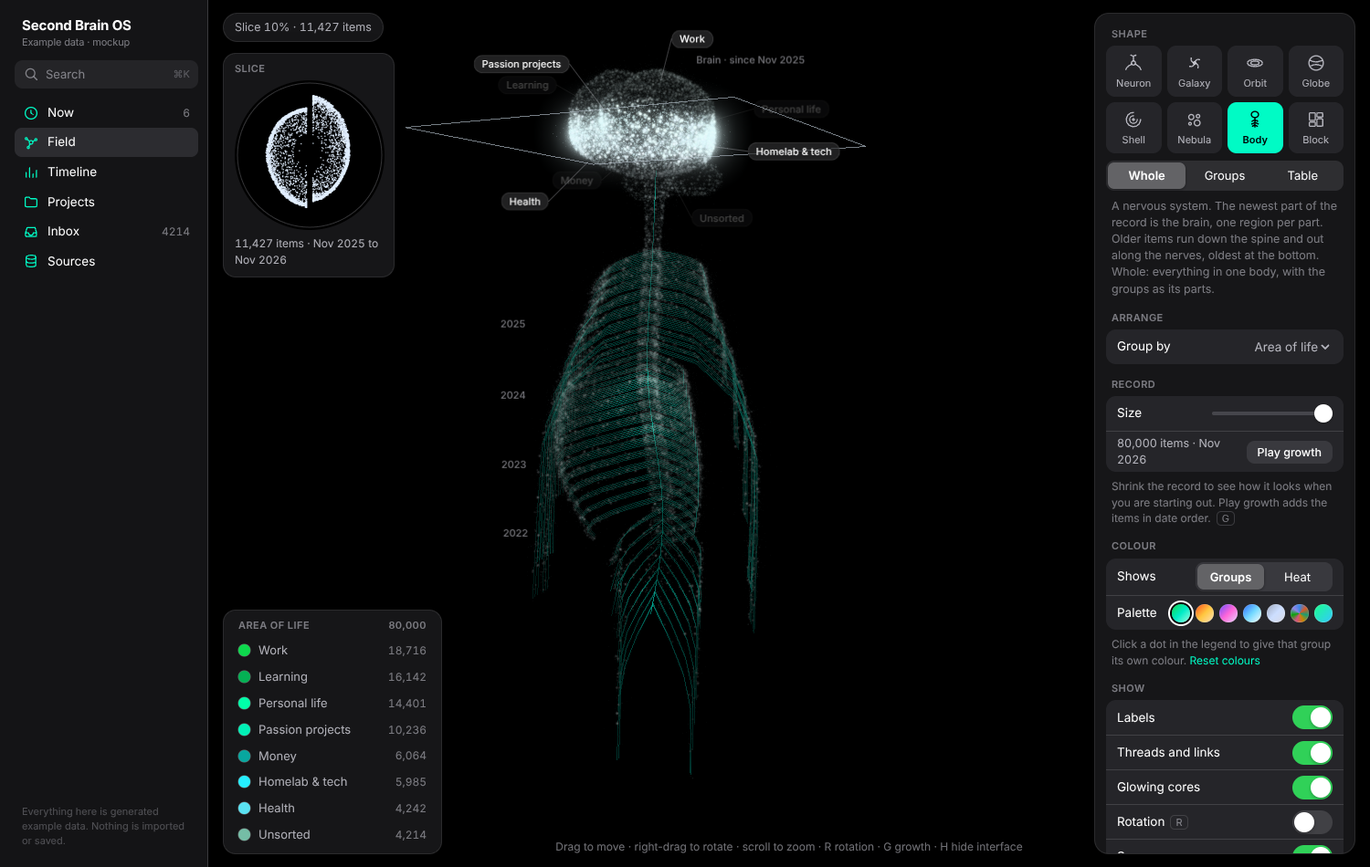
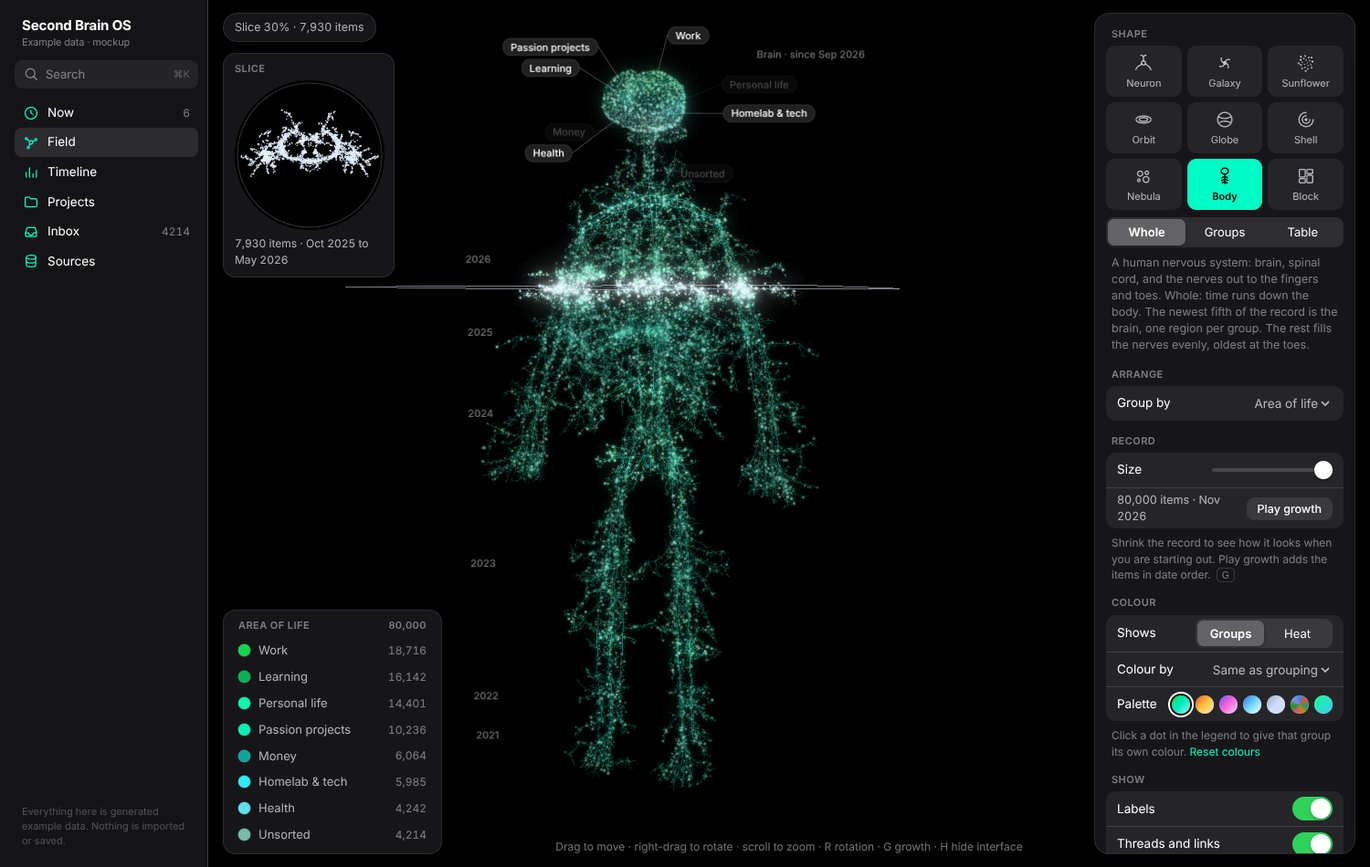
Second Brain OS mockup: Body is an anatomical nervous system
Rebuild the Body shape on the nerve tree from the v5 field (cord, rib
nerves, arms to fingers, legs to toes, mirrored), with a brain scaled
to the figure. Items sit along the nerves; Groups and Table give each
group a stretch of the one body, and Table splits each stretch left to
right by the second property. The unlit body stays visible while
scanning.

Claude-Session: https://claude.ai/code/session_01QQiybXZrdU5CyeFzxcWoFW

diff --git a/artifacts/second-brain-os.html b/artifacts/second-brain-os.html
@@ -512,7 +512,7 @@ let flBuf = [];                                           // thread and frame li
 const Z4 = [0, 0, 0, 0], fl = (x1, y1, z1, x2, y2, z2, c, a, C = Z4) => flBuf.push(x1, y1, z1, c[0], c[1], c[2], a, C[0], C[1], C[2], C[3], x2, y2, z2, c[0], c[1], c[2], a, C[0], C[1], C[2], C[3]);
 const WHITE = [1, 1, 1], NEUTRAL = [0.62, 0.72, 0.78], hr = n => (hash(n) & 0xffff)/65535;
 const shown = i => RANK[i] < S.count;                     // is this item part of the record at its current size?
-const colKey = () => S.colProp !== "same" && GROUPS[S.colProp] ? S.colProp : S.by;      // what colour stands for: the grouping, unless another property is chosen
+const colKey = () => S.colProp !== "same" && GROUPS[S.colProp] ? S.colProp : S.shape === "body" && S.lay === "table" && GROUPS[S.across] ? S.across : S.by;      // what colour stands for: the grouping, unless another property is chosen
 function groupStats(key){ const g = GROUPS[key || S.by], n = g.meta.length, cnt = new Int32Array(n); for(let i=0;i<NI;i++) if(RANK[i] < S.count) cnt[g.of(i)]++; return cnt; }
 const unit3 = v => { const l = Math.hypot(v[0], v[1], v[2]) || 1; return [v[0]/l, v[1]/l, v[2]/l]; };
 const cross3 = (a, b) => [a[1]*b[2]-a[2]*b[1], a[2]*b[0]-a[0]*b[2], a[0]*b[1]-a[1]*b[0]];
@@ -525,6 +525,44 @@ function parts(it){                                       // split one body's it
   for(const i of it.items){ const k = key(i); let a = m.get(k); if(!a) m.set(k, a = []); a.push(i); const t = iTm[i]; if(t < t0) t0 = t; if(t > t1) t1 = t; }
   const ord = [...m.keys()].sort((a, b) => m.get(b).length-m.get(a).length), n = it.items.length; if(t1-t0 < 3) t0 = Math.max(0, t1-3);
   return {ord, items:ord.map(k => m.get(k)), share:ord.map(k => m.get(k).length/n), n:ord.length, u:i => clamp((iTm[i]-t0)/(t1-t0), 0, 1)}; }
+let BT = null;
+function bodyTree(){ if(BT) return BT;                     // the nerve tree, grown once for the midline and the right side and then mirrored. Units here are centimetre-like; the result is scaled to the body's local space.
+  const rnd = rngF(4242), gs = () => { let u = 0; while(u < 1e-7) u = rnd(); return Math.sqrt(-2*Math.log(u))*Math.cos(TAU*rnd()); }, V = []; let gen = 0;
+  const add = (x, y, z, p) => { V.push([x, y, z, p, gen]); return V.length-1; };
+  const chain = (p, pts, wob) => { let last = p; wob = wob === undefined ? 0.7 : wob;
+    for(const q of pts){ const a = V[last], d = Math.hypot(q[0]-a[0], q[1]-a[1], q[2]-a[2]), n = Math.max(1, Math.round(d/3.5));
+      for(let i=1;i<=n;i++){ const f = i/n, j = i < n ? wob : 0; last = add(a[0]+(q[0]-a[0])*f+(rnd()-0.5)*j, a[1]+(q[1]-a[1])*f+(rnd()-0.5)*j, a[2]+(q[2]-a[2])*f+(rnd()-0.5)*j, last); } }
+    return last; };
+  const root = add(0, 84, -2, -1); chain(root, [[0, 89, -2.6], [0, 95.5, -1.5]], 0.3);                             // brainstem
+  const cordA = V.length, cpts = []; for(let y=78;y>=-24;y-=6) cpts.push([0, y, -2-3*Math.sin((84-y)/108*Math.PI*1.5)]); chain(root, cpts, 0.25); const cordB = V.length;      // spinal cord
+  const cordAt = y => { let b = cordA, bd = 1e9; for(let v=cordA;v<cordB;v++){ const d = Math.abs(V[v][1]-y); if(d < bd){ bd = d; b = v; } } return b; };
+  const sideA = V.length; gen = 1;
+  for(let L=0;L<12;L++){ const y0 = 62-L*4.4, Rx = 25*(0.8+0.2*Math.sin(Math.PI*(L+1)/13)), pts = [], kmax = 5+((rnd()*2) | 0), dr = 9+5*rnd()+(L > 8 ? 9 : 0);      // nerves between the ribs wrap the chest
+    for(let k=1;k<=kmax;k++){ const ph = 0.45+k*0.375; pts.push([Rx*Math.sin(ph), y0-dr*ph/2.7+gs()*0.7, 8-14*Math.cos(ph)]); } chain(cordAt(y0), pts, 1.2); }
+  chain(cordAt(80), [[5, 82, -3], [8.5, 88, -6], [8, 95, -10]], 0.8); chain(cordAt(78), [[6, 79, 1], [10, 82, 4], [11, 88, 3]], 0.8); chain(cordAt(78), [[7, 77, -3], [13, 76, -4], [19, 73, -3]], 0.8);      // neck
+  const SHO = chain(cordAt(74), [[14, 73, -3], [27, 68, -1]], 1.0);                                                 // shoulder
+  for(const [y, yy] of [[78, 70], [70, 66.5], [66, 65]]) chain(cordAt(y), [[13, (y+yy)/2+1, -2], [25+rnd(), yy, rnd()*2]], 1.0);
+  const wr = []; for(let j=0;j<4;j++){ const ox = (j-1.5)*2.6, oz = j % 2 ? 3 : -3, e = chain(SHO, [[33+ox*0.6, 50+gs(), oz*0.7], [39+ox, 29+gs()*2, -2+oz]], 1.2); wr.push(chain(e, [[44+ox, 10+gs()*2, 2+oz*0.8], [47.5+ox*0.9, -7, 5+oz*0.5]], 1.2)); }      // arm
+  for(let f=0;f<5;f++){ const tx = 47.5+(f-2)*3.6, ty = -28+[7, 1.5, 0, 1.5, 4][f], tz = 9+(f === 0 ? 4.5 : 0), kn = chain(wr[[0, 1, 1, 2, 3][f]], [[47+(f-2)*2.3, -15, 7]], 0.5); chain(kn, [[tx-0.55, ty, tz]], 0.3); chain(kn, [[tx+0.55, ty+0.7, tz]], 0.3); }      // fingers
+  const HP = chain(cordAt(-20), [[7, -26, -2], [12, -31, 0]], 1.0);                                                 // hip
+  for(const y of [4, -4, -12]) chain(cordAt(y), [[6, y-10, -1], [11+rnd(), -29+rnd()*2, rnd()*2-1]], 1.0);
+  chain(cordAt(8), [[9, -8, 4], [13, -44, 8], [15, -72, 7]], 1.3);
+  let af = 0; for(let j=0;j<4;j++){ const ox = (j-1.5)*2.4, oz = j % 2 ? 4 : -4, k = chain(HP, [[14+ox*0.7, -55+gs()*2, oz*0.8], [15+ox, -80, oz]], 1.2), a = chain(k, [[16+ox, -104+gs()*2, oz*0.7-1], [16+ox*0.8, -126, oz*0.5-2]], 1.2); if(j === 1) af = a; }      // leg
+  for(let f=0;f<5;f++) chain(af, [[13.5+f*1.7, -133, 7], [10.5+f*3, -138.5, 15+(f === 0 ? 1 : 0)]], 0.5);          // toes
+  const sy = chain(cordAt(72), [[4.2, 66, 1.5], [4.6, 40, 3]], 0.5); chain(sy, [[4.4, 16, 2.5], [3.6, -12, 1]], 0.5);      // the chain beside the spine
+  const vg = chain(root, [[4.5, 80, 3], [6, 70, 7], [6.5, 56, 10]], 0.9); for(let k=0;k<9;k++) chain(vg, [[Math.abs(6.5+gs()*4.5), 56+gs()*4.5, 10+gs()*3]], 0.8);      // heart and gut
+  const vg2 = chain(vg, [[5, 42, 12], [3, 30, 12.5]], 0.9); for(let k=0;k<15;k++) chain(vg2, [[Math.abs(3+gs()*6), 30+gs()*6, 12.5+gs()*3.5]], 0.8);
+  const cx = x => Math.max(0.5, x);
+  for(let q=0;q<4;q++){ const base = V.length, cnt = [170, 280, 340, 460][q];                                        // four rounds of finer branches, each staying on its side of the midline
+    for(let k=0;k<cnt;k++){ const v = sideA+((rnd()*(base-sideA)) | 0), a = V[v], l = [7, 4.5, 3, 1.8][q]+[11, 6, 4, 2.4][q]*rnd(), dx = gs()+0.5, dy = gs()-0.6, dz = gs(), nn = l/Math.hypot(dx, dy, dz); gen = 2+q;
+      chain(v, [[cx(a[0]+dx*nn*0.5+gs()*l*0.12), a[1]+dy*nn*0.5+gs()*l*0.12, a[2]+dz*nn*0.5+gs()*l*0.12], [cx(a[0]+dx*nn), a[1]+dy*nn, a[2]+dz*nn]], 0.6); } }
+  const n0 = V.length, map = new Int32Array(n0); for(let v=0;v<n0;v++){ if(v < sideA){ map[v] = v; continue; } map[v] = V.length; const a = V[v]; V.push([-a[0], a[1], a[2], a[3] < sideA ? a[3] : map[a[3]], a[4]]); }      // mirror
+  const L = v => [V[v][0]/135, (V[v][1]+8)/135, V[v][2]/135], WT = [5, 2.2, 1.5, 1.1, 0.9, 0.8], AL = [0.9, 0.55, 0.34, 0.24, 0.17, 0.12], edges = [], raw = [];
+  for(let v=0;v<V.length;v++){ const p = V[v][3]; if(p < 0) continue; const a = L(p), b = L(v), g2 = V[v][4], len = Math.hypot(b[0]-a[0], b[1]-a[1], b[2]-a[2]), m = Math.max(1, Math.ceil(len/0.012)); edges.push([a, b, AL[g2]]);
+    for(let q=0;q<m;q++){ const f0 = q/m, f1 = (q+1)/m; raw.push([a[0]+(b[0]-a[0])*f0, a[1]+(b[1]-a[1])*f0, a[2]+(b[2]-a[2])*f0, a[0]+(b[0]-a[0])*f1, a[1]+(b[1]-a[1])*f1, a[2]+(b[2]-a[2])*f1, g2, len/m*WT[g2]]); } }
+  raw.sort((x, y) => (y[1]+y[4])-(x[1]+x[4]));              // top of the body first
+  const n = raw.length, pc = new Float32Array(n*7), wt = new Float32Array(n), cum = new Float32Array(n+1); raw.forEach((r, k) => { pc.set(r.slice(0, 7), k*7); wt[k] = r[7]; cum[k+1] = cum[k]+r[7]; }); for(let k=0;k<=n;k++) cum[k] /= cum[n] || 1;
+  return BT = {edges, pc, wt, cum, n}; }
 const partLabel = (it, P, j, x, y, z, opt) => { if(it.whole && P.n <= 12) labels.push(Object.assign({t:GROUPS[S.by].meta[P.ord[j]][0], p:W(it, x, y, z), c:"", cen:[it.cx, it.cy, it.cz, it.r]}, opt)); };
 function wander(start, dir, len, seed, bend){ const n = Math.max(5, Math.round(len*26)), pts = [start.slice()]; let d = dir.slice(), p = start.slice();
   for(let k=1;k<=n;k++){ const t = k*0.33; d = unit3([d[0]+bend*(vnoise(seed, t, 1.7)-0.5), d[1]+bend*(vnoise(seed, t, 5.3)-0.5), d[2]+bend*(vnoise(seed, t, 9.9)-0.5)]);
@@ -566,64 +604,41 @@ const SH = {
     for(let j=0;j<n;j++){ const r0 = 0.2+0.8*(n-1-j)/n;
       for(const i of P.items[j]){ const lat = (P.u(i)-0.5)*2.7+gauss()*0.03, az = CUT+R()*(TAU-2*CUT), q = r0+R()*th*0.55, cl = Math.cos(lat); put(i, it, cl*Math.sin(az)*q, Math.sin(lat)*q, cl*Math.cos(az)*q); }
       const lat = -0.95+1.9*j/Math.max(1, n-1), q = r0+th*0.27; partLabel(it, P, j, Math.cos(lat)*Math.sin(CUT)*q, Math.sin(lat)*q, Math.cos(lat)*Math.cos(CUT)*q, {left:true}); } },
-  body(it){ const P = parts(it), n = P.n, NV = 30, all = it.items.slice().sort((a, b) => iTm[a]-iTm[b]);      // the newest part of the record is the brain; the rest runs down the spine, oldest at the bottom
-    if(!all.length) return; const t0 = iTm[all[0]], tCut = iTm[all[Math.min(all.length-1, Math.floor(all.length*0.6))]], span = Math.max(0.5, tCut-t0), BY = 0.74, DY = 1.04/NV;
-    const cen = v => { const t = v/NV; return [0.008*Math.sin(t*8.5+1), 0.42-t*1.04, 0.05*Math.sin(t*5.6+0.5)-0.02]; }, sm = x => { x = clamp(x, 0, 1); return x*x*(3-2*x); };
-    const root = (v, sd, g, f, o) => { const t = v/NV, c = cen(v), y0 = c[1]-g*DY;                     // one nerve leaving the cord: arms from the neck, ribs from the chest, legs from the base
-      if(t < 0.24){ const k = sm(t/0.24), L = 0.1+0.5*k, dn = 0.25+0.9*k; o[0] = c[0]+sd*(0.3*Math.sin(Math.min(1, f*1.5)*1.5708)*(0.5+0.6*k)+0.04*f*g); o[1] = y0-f*0.06-dn*f*f*L; o[2] = c[2]+0.05*f*(g-0.3); }
-      else if(t < 0.68){ const k = (t-0.24)/0.44, rx = 0.2*(0.8+0.25*Math.sin(k*3.1416)), ph = f*2.5; o[0] = c[0]+sd*rx*Math.sin(ph); o[1] = y0-0.07*f-0.02*Math.sin(ph); o[2] = c[2]+rx*0.72*(1-Math.cos(ph)); }
-      else { const k = (t-0.68)/0.32, L = 0.14+0.4*k; o[0] = c[0]+sd*(0.03+0.085*sm(f*1.7)+0.035*g*f+0.02*(1-k)*f); o[1] = y0-f*L; o[2] = c[2]+0.04*f*(g-0.5)+0.03*f*f; }
-      return o; };
-    const stem = (f, o) => { const c = cen(0); o[0] = c[0]*f; o[1] = BY-0.1+(c[1]-BY+0.1)*f; o[2] = -0.05+(c[2]+0.05)*f; return o; }, q0 = [0, 0, 0], q1 = [0, 0, 0];
-    for(let k=0;k<6;k++) seg(it, stem(k/6, q0).slice(), stem((k+1)/6, q1).slice(), 0.8);
-    const has = new Uint8Array(NV*n); let vTop = NV;
-    const inBrain = (i, d0, sp, lo, hi) => { const w = R(); let px = 0, py = BY, pz = 0;
-          if(w < 0.09){ const sd = R() < 0.5 ? -1 : 1, u = unit3([gauss(), gauss(), gauss()]), rr = 0.82+0.18*R(); px = sd*0.07+u[0]*0.085*rr; py = BY-0.115+Math.round(u[1]*0.05*rr*90)/90+gauss()*0.0015; pz = -0.14+u[2]*0.075*rr; if(px*sd < 0.004) px = sd*0.004; }      // cerebellum: two small leaves, finely layered
-          else if(w < 0.13){ const f = R(), a = R()*TAU, rr = 0.034*(1-0.4*f)*(0.85+0.15*R()); stem(f, q0); px = q0[0]+Math.cos(a)*rr; py = q0[1]; pz = q0[2]+Math.sin(a)*rr; }                                          // brainstem
-          else for(let tr=0;tr<8;tr++){ let x, y, z; if(lo !== undefined){ x = lo+R()*(hi-lo); const rr = Math.sqrt(Math.max(0, 1-x*x)), ph = R()*TAU; y = rr*Math.cos(ph); z = rr*Math.sin(ph); } else { x = d0[0]+gauss()*sp; y = d0[1]*0.8+gauss()*sp; z = d0[2]+gauss()*sp; const l = Math.hypot(x, y, z) || 1; x /= l; y /= l; z /= l; }                                  // cortex: a folded shell with two unequal halves; each part is a region of it
-            const sd = x < 0 ? -1 : 1, lump = 1+0.2*(vnoise(x*1.7+sd*13.7+3, y*1.7+5, z*1.7+8)-0.5), dip = 1-0.3*Math.exp(-(x*x)/0.02)*(y > 0 ? 1 : 0.3), nar = y < 0 ? 1-0.3*y*y : 1;
-            const sx = x*0.2*(sd < 0 ? 1.05 : 0.97)*lump*nar, sy = y*0.17*(y < 0 ? 0.72+0.2*x*x : 1)*lump*dip, sz = z*0.25*lump*(1+0.06*sd*z);
-            const nz = 0.6*vnoise(sx*22+sd*31.7, sy*22+5.2, sz*18+9.4)+0.4*vnoise(sx*47+3, sy*47+1, sz*40+7), rd = Math.min(Math.abs(nz-0.36), Math.abs(nz-0.5), Math.abs(nz-0.64)), deep = R() < 0.12, sh = deep ? 0.4+0.5*Math.sqrt(R()) : 0.95+0.05*R();
-            px = sx*sh; if(Math.abs(px) < 0.015) px = sd*(0.015+Math.abs(gauss())*0.004); py = BY+sy*sh; pz = sz*sh+0.01; if(deep || rd >= 0.016 || R() > 0.95) break; }
-          put(i, it, px, py, pz); };
-    const inSpine = (i, v, g) => { const q = R(), sd = R() < 0.5 ? -1 : 1;
-        if(q < 0.2){ const c = cen(v+R()*0.55), a = R()*TAU, rr = 0.024*(0.8+0.4*R())*(1+0.4*v/NV); put(i, it, c[0]+Math.cos(a)*rr, c[1]+gauss()*0.004, c[2]+Math.sin(a)*rr*0.8); }
-        else if(q < 0.26){ const c = cen(v+R()*0.55), f = R(); put(i, it, c[0]+gauss()*0.004, c[1]-f*0.018, c[2]-0.03-f*0.04); }
-        else { root(v, sd, g, Math.pow(R(), 0.8), q0); put(i, it, q0[0]+gauss()*0.0035, q0[1]+gauss()*0.0035, q0[2]+gauss()*0.0035); } };
-    if(it.mode === "groups" && n > 1){ const ord = [...Array(n).keys()]; if(S.by === "year") ord.sort((x, y) => P.ord[y]-P.ord[x]);      // still one body: each group owns its own stretch of it, the first ones in the brain
-      let k = 1, cum = 0, best = 9, tot = 0; for(let q=0;q<n-1;q++){ cum += P.share[ord[q]]; if(Math.abs(cum-0.4) < best){ best = Math.abs(cum-0.4); k = q+1; tot = cum; } }
-      let a = 0, xa = -1; ord.forEach((j, q) => { const items = P.items[j].slice().sort((x, y) => iTm[y]-iTm[x]), sh = P.share[j];
-        if(q < k){ const xb = q === k-1 ? 1 : xa+2*sh/tot, xm = (xa+xb)/2; for(const i of items) inBrain(i, null, 0, xa, xb); partLabel(it, P, j, xm*0.2, BY+0.15*Math.sqrt(Math.max(0, 1-xm*xm))+0.01, 0.06, {lead:W(it, xm*0.08, BY-0.12, 0)}); xa = xb; return; }      // brain: slices from left to right, sized by share
-        const b = a+sh/(1-tot), len = items.length; items.forEach((i, x) => { const tv = Math.min(NV-1e-3, (a+(x+R())/len*(b-a))*NV), v = Math.floor(tv); inSpine(i, v, tv-v); });      // spine: a stretch per group, newest at its top
-        const vm = Math.min(NV-1, Math.floor((a+b)/2*NV)), sd = (q-k) % 2 ? 1 : -1, tip = root(vm, sd, 0.5, 0.4, [0, 0, 0]); partLabel(it, P, j, tip[0], tip[1], tip[2]+0.03, {lead:W(it, 0, tip[1]+0.02, tip[2]), solid:true});
-        a = b; });
-      for(let v=0;v<NV;v++){ seg(it, cen(v), cen(v+1), 0.9); for(const g of [0.12, 0.37, 0.62, 0.87]) for(const sd of [-1, 1]){ let p = cen(v); p[1] -= g*DY; for(let q=1;q<=5;q++){ const e = root(v, sd, g, q/5, [0, 0, 0]); seg(it, p, e, 0.42-0.06*q); p = e; } } }
+  body(it){ const B = bodyTree(), P = parts(it), n = P.n, BY = 0.875, BS = 0.56, mode = it.mode || "whole", all = it.items.slice().sort((x, y) => iTm[y]-iTm[x]), N0 = all.length; if(!N0) return;      // a human nervous system: brain, cord, and the nerves out to fingers and toes
+    const inBrain = (i, d0, sp, lo, hi) => { const w = lo === undefined ? R() : 1; let px = 0, py = 0, pz = 0;
+      if(w < 0.09){ const sd = R() < 0.5 ? -1 : 1, u = unit3([gauss(), gauss(), gauss()]), rr = 0.82+0.18*R(); px = sd*0.07+u[0]*0.085*rr; py = -0.115+Math.round(u[1]*0.05*rr*90)/90+gauss()*0.0015; pz = -0.14+u[2]*0.075*rr; if(px*sd < 0.004) px = sd*0.004; }      // cerebellum: two small leaves, finely layered
+      else if(w < 0.13){ const f = R(), a = R()*TAU, rr = 0.034*(1-0.4*f)*(0.85+0.15*R()); px = Math.cos(a)*rr; py = -0.1-0.246*f; pz = -0.05+0.023*f+Math.sin(a)*rr; }                                                // brainstem
+      else for(let tr=0;tr<8;tr++){ let x, y, z; if(lo !== undefined){ x = lo+R()*(hi-lo); const rr = Math.sqrt(Math.max(0, 1-x*x)), ph = R()*TAU; y = rr*Math.cos(ph); z = rr*Math.sin(ph); } else { x = d0[0]+gauss()*sp; y = d0[1]*0.8+gauss()*sp; z = d0[2]+gauss()*sp; const l = Math.hypot(x, y, z) || 1; x /= l; y /= l; z /= l; }      // cortex: a folded shell with two unequal halves
+        const sd = x < 0 ? -1 : 1, lump = 1+0.2*(vnoise(x*1.7+sd*13.7+3, y*1.7+5, z*1.7+8)-0.5), dip = 1-0.3*Math.exp(-(x*x)/0.02)*(y > 0 ? 1 : 0.3), nar = y < 0 ? 1-0.3*y*y : 1;
+        const sx = x*0.2*(sd < 0 ? 1.05 : 0.97)*lump*nar, sy = y*0.17*(y < 0 ? 0.72+0.2*x*x : 1)*lump*dip, sz = z*0.25*lump*(1+0.06*sd*z);
+        const nz = 0.6*vnoise(sx*22+sd*31.7, sy*22+5.2, sz*18+9.4)+0.4*vnoise(sx*47+3, sy*47+1, sz*40+7), rd = Math.min(Math.abs(nz-0.36), Math.abs(nz-0.5), Math.abs(nz-0.64)), deep = R() < 0.3, sh = deep ? 0.35+0.55*Math.sqrt(R()) : 0.95+0.05*R();
+        px = sx*sh; if(Math.abs(px) < 0.015) px = sd*(0.015+Math.abs(gauss())*0.004); py = sy*sh; pz = sz*sh+0.01; if(deep || rd >= 0.016 || R() > 0.95) break; }
+      put(i, it, px*BS, BY+py*BS, pz*BS); };
+    const TH = [0.011, 0.0055, 0.004, 0.003, 0.0025, 0.002], onPiece = (i, k) => { const o = k*7, f = R(), th = TH[B.pc[o+6]]; put(i, it, B.pc[o]+(B.pc[o+3]-B.pc[o])*f+gauss()*th, B.pc[o+1]+(B.pc[o+4]-B.pc[o+1])*f+gauss()*th, B.pc[o+2]+(B.pc[o+5]-B.pc[o+2])*f+gauss()*th); };
+    const pieceAt = q => { let lo = 0, hi = B.n; q = clamp(q, 0, 0.999999); while(hi-lo > 1){ const m = (lo+hi) >> 1; if(B.cum[m] <= q) lo = m; else hi = m; } return lo; }, yAt = q => { const o = pieceAt(q)*7; return (B.pc[o+1]+B.pc[o+4])/2; };
+    for(const e of B.edges) seg(it, e[0], e[1], e[2]);
+    const cenL = [it.cx, it.cy, it.cz, it.r];
+    if(mode === "whole" || n < 2){ const nb = Math.round(N0*0.18), m = N0-nb, tCut = iTm[all[Math.max(0, nb-1)]], seed = new Map(), spd = new Map();      // time runs down the body: the newest fifth is the brain, the rest fills the nerves evenly, oldest at the toes
+      for(let j=0;j<n;j++){ const d0 = fib(j, n); seed.set(P.ord[j], d0); spd.set(P.ord[j], n === 1 ? 9 : 0.3+0.95*Math.sqrt(P.share[j])); partLabel(it, P, j, d0[0]*0.2*BS, BY+d0[1]*0.136*BS, d0[2]*0.25*BS, {lead:W(it, 0, BY, 0)}); }
+      const key = GROUPS[S.by].of; for(let k=0;k<nb;k++){ const i = all[k], g = it.whole ? key(i) : P.ord[0]; inBrain(i, seed.get(g) || [0, 1, 0], spd.get(g) || 9); }
+      for(let k=nb;k<N0;k++) onPiece(all[k], pieceAt((k-nb+R()*(1+m*0.004))/(m*1.004)));
+      if(it.whole){ const my = tm => MON[Math.floor(tm) % 12]+" "+(2021+Math.floor(tm/12)); labels.push({t:"Brain · since "+my(tCut), p:W(it, 0.3, BY+0.13, 0), c:"yr", left:true});
+        for(let yv=0, k=nb;yv<YEARS.length;yv++){ const y = YEARS.length-1-yv; let k1 = k; while(k1 < N0 && iTm[all[k1]] >= y*12) k1++; if(k1 > k && k1-k > m*0.012) labels.push({t:String(2021+y), p:W(it, -0.5, yAt(((k+k1)/2-nb)/m), 0), c:"yr", right:true}); k = k1; } }
       return; }
-    for(let j=0;j<n;j++){ const d0 = fib(j, n), sp = n === 1 ? 9 : 0.3+0.95*Math.sqrt(P.share[j]);
-      for(const i of P.items[j]){ if(iTm[i] >= tCut){ inBrain(i, d0, sp); continue; }
-        const v = Math.min(NV-1, Math.floor((1-(iTm[i]-t0)/span)*NV)); has[v*n+j] = 1; if(v < vTop) vTop = v; inSpine(i, v, n === 1 ? R() : j/n+R()*0.8/n); }      // spine: one vertebra per stretch of time
-      partLabel(it, P, j, d0[0]*0.2, BY+d0[1]*0.8*0.17, d0[2]*0.25, {lead:W(it, 0, BY, 0)}); }
-    for(let v=vTop;v<NV;v++){ seg(it, cen(v), cen(v+1), 0.9);                                     // a nerve is drawn only once it holds something
-      for(let j=0;j<n;j++){ if(!has[v*n+j]) continue; for(const sd of [-1, 1]){ const g = n === 1 ? 0.5 : j/n; let p = cen(v); p[1] -= g*DY; for(let q=1;q<=5;q++){ const e = root(v, sd, g, q/5, [0, 0, 0]); seg(it, p, e, 0.42-0.06*q); p = e; } } } }
-    for(let v=0;v<vTop;v++) seg(it, cen(v), cen(v+1), 0.9);
-    if(it.whole){ const my = tm => MON[Math.floor(tm) % 12]+" "+(2021+Math.floor(tm/12)); labels.push({t:"Brain · since "+my(tCut), p:W(it, 0.3, BY+0.24, 0), c:"yr"});
-      for(let yv=Math.ceil(t0/12);yv*12<tCut;yv++) labels.push({t:String(2021+yv), p:W(it, -0.42, 0.42-(1-(yv*12-t0)/span)*1.04, 0), c:"yr", right:true}); } },
-  bodyflat(it){ const g = GROUPS[S.by], ac = ACROSS[S.across], cnt = groupStats(), rows = [...Array(cnt.length).keys()].filter(k => cnt[k]); if(S.by === "year") rows.reverse(); else if(S.by !== "status") rows.sort((x, y) => cnt[y]-cnt[x]);      // one body laid flat: groups run down it, the second property runs outward from the spine
-    const cc = new Int32Array(ac.meta.length); for(const i of it.items) cc[ac.of(i)]++; const cols = [...Array(cc.length).keys()].filter(k => cc[k]), nr = rows.length, nc = cols.length, ri = new Int32Array(cnt.length), ci = new Int32Array(cc.length); rows.forEach((k, j) => ri[k] = j); cols.forEach((k, j) => ci[k] = j);
-    const sm = x => { x = clamp(x, 0, 1); return x*x*(3-2*x); }, YT = 0.925, YB = -1, M = 400, C = [it.cx, it.cy, it.cz, it.r];
-    const wOf = y => y > 0.56 ? Math.max(0.05, 0.215*Math.sqrt(Math.max(0, 1-Math.pow((y-0.745)/0.185, 2)))) : y > 0.44 ? 0.05 : y > 0.3 ? 0.05+0.28*sm((0.44-y)/0.14) : y > -0.3 ? 0.33-0.12*sm((0.3-y)/0.6) : y > -0.48 ? 0.21+0.04*sm((-0.3-y)/0.18) : 0.25-0.15*(-0.48-y)/0.52;      // half-width of the outline: head, neck, shoulders, waist, hips, legs
-    const gOf = y => y > -0.5 ? 0.012 : 0.012+0.035*sm((-0.5-y)/0.25), A = new Float32Array(M+1); for(let q=0;q<M;q++){ const y = YT+(YB-YT)*(q+0.5)/M; A[q+1] = A[q]+Math.max(0, wOf(y)-gOf(y)); }
-    const yAt = a => { let lo = 0, hi = M; while(hi-lo > 1){ const m = (lo+hi) >> 1; if(A[m] <= a) lo = m; else hi = m; } return YT+(YB-YT)*(lo+(a-A[lo])/Math.max(1e-9, A[lo+1]-A[lo]))/M; };      // rows take height in proportion to their share of the outline's area
-    const n = it.items.length, edge = [0]; let acc = 0; rows.forEach(k => { acc += cnt[k]/n; edge.push(Math.min(1, acc)*A[M]); });
-    for(const i of it.items){ const r = ri[g.of(i)], c = ci[ac.of(i)], sd = R() < 0.5 ? -1 : 1; let x = 0, y = 0;
-      for(let tr=0;tr<6;tr++){ y = yAt(edge[r]+R()*(edge[r+1]-edge[r])); const w = wOf(y), gp = gOf(y); x = gp+(c+R())/nc*(w-gp);
-        if(y <= 0.56){ if(R() < 0.72) y = Math.round(y/0.0125)*0.0125+gauss()*0.0012; break; }
-        const nz = 0.6*vnoise(x*sd*24+40, y*24, 7.3)+0.4*vnoise(x*sd*52+3, y*52, 1.7); if(Math.min(Math.abs(nz-0.36), Math.abs(nz-0.5), Math.abs(nz-0.64)) >= 0.014 || R() > 0.9) break; }
-      put(i, it, sd*x, y, gauss()*0.006); }
-    seg(it, [0, YT, 0], [0, -0.5, 0], 0.5); for(let r=1;r<nr;r++){ const y = yAt(edge[r]), w = wOf(y); seg(it, [-w, y, 0], [w, y, 0], 0.4); }
-    for(let c=1;c<=nc;c++) for(const sd of [-1, 1]){ let p = null; for(let q=0;q<=90;q++){ const y = YT+(YB-YT)*q/90, w = wOf(y), gp = gOf(y), e = [sd*(gp+c/nc*(w-gp)), y, 0]; if(p) seg(it, p, e, c === nc ? 0.42 : 0.13); p = e; } }
-    if(nr <= 30) rows.forEach((k, j) => { const y = yAt((edge[j]+edge[j+1])/2), w = wOf(y); if(nr > 12 && yAt(edge[j])-yAt(edge[j+1]) < 0.034) return; labels.push({t:g.meta[k][0], p:W(it, -w, y, 0), c:nr > 12 ? "yr" : "", lead:W(it, 0, y, 0), cen:C}); });
-    cols.forEach((k, j) => { const y = nc > 1 ? -0.82+1.08*j/(nc-1) : 0, w = wOf(y), gp = gOf(y); labels.push({t:ac.meta[k][0], p:W(it, gp+(j+0.5)/nc*(w-gp), y, 0), c:"yr", at:W(it, 0.47, y+0.025, 0), lead:W(it, 0, y, 0), cen:C}); }); },
+    const g = GROUPS[S.by], cnt = groupStats(), rows = [...Array(cnt.length).keys()].filter(k => cnt[k]); if(S.by === "year") rows.reverse(); else if(S.by !== "status") rows.sort((x, y) => cnt[y]-cnt[x]);      // still one body: the first group is the brain, each other group owns a stretch of the nerves
+    const byRow = new Map(); for(const i of all){ const k = g.of(i); let a = byRow.get(k); if(!a) byRow.set(k, a = []); a.push(i); }
+    const ac = mode === "table" ? ACROSS[S.across] : null, rest = N0-byRow.get(rows[0]).length; let qa = 0;
+    rows.forEach((k, r) => { const items = byRow.get(k); let cols = null, cq = null;
+      if(ac){ const cc = new Map(); for(const i of items){ const c = ac.of(i); cc.set(c, (cc.get(c) || 0)+1); } cols = [...cc.keys()].sort((x, y) => x-y); cq = new Map(); let acc = 0; for(const c of cols){ cq.set(c, [acc/items.length, (acc+cc.get(c))/items.length]); acc += cc.get(c); } }      // table: a row's stretch is split left to right by the second property
+      if(r === 0){ for(const i of items){ if(ac){ const q = cq.get(ac.of(i)); inBrain(i, null, 0, -1+2*q[0], -1+2*q[1]); } else inBrain(i, [0, 1, 0], 9); }
+        labels.push({t:g.meta[k][0], p:W(it, -0.115*BS*1.9, BY+0.02, 0.05), c:"", lead:W(it, 0, BY, 0), solid:true, cen:cenL}); return; }
+      const qb = qa+items.length/Math.max(1, rest), ia = pieceAt(qa), ib = Math.max(ia+1, Math.min(B.n, pieceAt(qb)+1));
+      if(ac){ const idx = []; for(let p=ia;p<ib;p++) idx.push(p); idx.sort((x, y) => (B.pc[x*7]+B.pc[x*7+3])-(B.pc[y*7]+B.pc[y*7+3])); const cw = new Float32Array(idx.length+1); idx.forEach((p, j) => { cw[j+1] = cw[j]+B.wt[p]; });
+        for(const i of items){ const q = cq.get(ac.of(i)), u = (q[0]+R()*(q[1]-q[0]))*cw[idx.length]; let lo = 0, hi = idx.length; while(hi-lo > 1){ const mm = (lo+hi) >> 1; if(cw[mm] <= u) lo = mm; else hi = mm; } onPiece(i, idx[lo]); } }
+      else items.forEach((i, x) => onPiece(i, pieceAt(qa+(x+R())/items.length*(qb-qa))));      // groups: newest at the top of the stretch
+      const ym = yAt((qa+qb)/2); let xm = 0.05; for(let p=ia;p<ib;p++) xm = Math.max(xm, Math.abs(B.pc[p*7]), Math.abs(B.pc[p*7+3])); const sd = ac ? -1 : r % 2 ? -1 : 1;
+      if(rows.length <= 30 && (rows.length <= 12 || yAt(qa)-yAt(qb) > 0.035)) labels.push({t:g.meta[k][0], p:W(it, sd*xm, ym, 0.02), c:rows.length > 12 ? "yr" : "", lead:W(it, 0, ym+0.01, 0), solid:true, cen:cenL});
+      qa = qb; }); },
   sunflower(it){ const items = it.items.slice().sort((a, b) => iTm[a]-iTm[b]), n = items.length, GA = 2.399963229728653, RR = 0.97, C = [it.cx, it.cy, it.cz, it.r];      // a seed head: the k-th item by date sits k golden-angle turns round and √k out, so every item gets the same room and time reads outward like tree rings
     const dome = r => 0.07*(1-r*r/(RR*RR)), at = k => { const r = RR*Math.sqrt((k+0.5)/n), a = k*GA; return [Math.cos(a)*r, dome(r), Math.sin(a)*r]; };
     for(let k=0;k<n;k++){ const p = at(k); put(items[k], it, p[0], p[1], p[2]); }
@@ -644,10 +659,10 @@ const mk = (items, cx, cy, cz, r, whole, tilt) => ({items, cx, cy, cz, r, whole,
 function buildView(){ const g = GROUPS[S.by], sh = S.shape, lay = S.lay; insts = []; labels = []; brId = 0;
   if(sh === "block") return ({whole:layoutTracks, groups:layoutMosaic, table:layoutMatrix})[lay]();
   if(sh === "body" && lay !== "whole"){ const all = []; for(let i=0;i<NI;i++) if(RANK[i] < S.count) all.push(i); const sc = clamp(Math.pow(S.count/NI, 0.3), 0.2, 1), it = mk(all, 0, 0, 0, 62*sc, true, 0);      // a second brain is one body, however it is arranged
-    it.mode = lay; insts.push(it); viewAxis = [0, 1, 0]; if(lay === "table"){ SH.bodyflat(it); extent = {w:54*sc, h:66*sc, cy:-2.5*sc}; } else { SH.body(it); extent = {w:46*sc, h:71*sc, cy:-3*sc}; } return; }
+    it.mode = lay; insts.push(it); viewAxis = [0, 1, 0]; SH.body(it); extent = {w:46*sc, h:66*sc, cy:0}; return; }
   const disc = !!DISC[sh], tilt = disc && lay !== "whole" ? 1.0 : 0; viewAxis = [0, Math.cos(tilt), Math.sin(tilt)];                             // discs lie flat when alone and lean toward you in a grid
   if(lay === "whole"){ const all = []; for(let i=0;i<NI;i++) if(RANK[i] < S.count) all.push(i); const sc = clamp(Math.pow(S.count/NI, 0.3), 0.2, 1);      // a small record makes a small body
-    const it = mk(all, 0, 0, 0, 62*sc, true, 0); insts.push(it); SH[sh](it); extent = disc ? {w:78*sc, h:62*sc, cy:0} : sh === "body" ? {w:34*sc, h:67*sc, cy:-5*sc} : {w:76*sc, h:74*sc, cy:0}; return; }
+    const it = mk(all, 0, 0, 0, 62*sc, true, 0); insts.push(it); SH[sh](it); extent = disc ? {w:78*sc, h:62*sc, cy:0} : sh === "body" ? {w:42*sc, h:66*sc, cy:0} : {w:76*sc, h:74*sc, cy:0}; return; }
   if(lay === "groups"){ const b = new Map(); for(let i=0;i<NI;i++){ if(RANK[i] >= S.count) continue; const k = g.of(i); let a = b.get(k); if(!a) b.set(k, a = []); a.push(i); }
     const ord = [...b.keys()].sort((x, y) => b.get(y).length-b.get(x).length), n = ord.length, rad = [], cx = [], cy = []; let acc = 0;
     ord.forEach((k, j) => { const c = b.get(k).length; rad[j] = sh === "neuron" || sh === "body" || disc ? 0.62*Math.sqrt(c)+5 : sh === "nebula" ? 3.3*Math.cbrt(c)+4 : 2.4*Math.cbrt(c)+3; const r = 1.3*Math.sqrt(acc), a = j*2.39996; cx[j] = Math.cos(a)*r; cy[j] = Math.sin(a)*r*0.72; acc += rad[j]*rad[j]; });
@@ -723,9 +738,9 @@ const SHAPES = [["neuron","Neuron","A glowing core with a fibre for each part. I
   ["globe","Globe","A ball where each part is a patch."],
   ["shell","Shell","Nested shells with a slice cut out, smallest part in the middle. Old at the bottom, new at the top."],
   ["nebula","Nebula","A loose cloud where each part is a clump tied to the centre."],
-  ["body","Body","A nervous system: one brain, one spine, and the nerves that leave it."],
+  ["body","Body","A human nervous system: brain, spinal cord, and the nerves out to the fingers and toes."],
   ["block","Block","Flat blocks. Whole is a timeline, Groups is boxes inside boxes, Table is a grid of counts."]];
-const BODY_LAYS = { whole:"Whole: time runs down the body. The newest part of the record is the brain, one region per group. Older items run down the spine and out along the nerves, oldest at the bottom.", groups:"Groups: still one body. Each group owns its own stretch of it, the first ones as slices of the brain; inside a stretch the newest is at the top.", table:"Table: one body laid flat. Groups run down it, and a second property runs outward from the spine." };
+const BODY_LAYS = { whole:"Whole: time runs down the body. The newest fifth of the record is the brain, one region per group. The rest fills the nerves evenly, oldest at the toes.", groups:"Groups: still one body. The first group is the brain; each other group owns a stretch of the body below it, newest at the top of its stretch.", table:"Table: still one body. Groups run down it as in Groups; inside each stretch the second property runs from left to right, and colour shows it." };
 const LAYS = { whole:"Whole: everything in one body, with the groups as its parts.", groups:"Groups: one body per group, sized by how much is in it.", table:"Table: groups run down, and a second property runs across." };
 const GLYPH = { sunflower:Array.from({length:21}, (_, k) => { const r = 2.15*Math.sqrt(k+0.5), a = k*2.39996; return `<circle cx="${(12+Math.cos(a)*r).toFixed(1)}" cy="${(12+Math.sin(a)*r).toFixed(1)}" r="${(0.55+0.03*k).toFixed(2)}" fill="currentColor" stroke="none"/>`; }).join(""), body:'<ellipse cx="12" cy="6" rx="4.2" ry="3.6"/><path d="M12 9.6V21M12 12.5l-3.5 1.5M12 12.5l3.5 1.5M12 15.5l-4 1.8M12 15.5l4 1.8M12 18.5l-3 1.5M12 18.5l3 1.5"/>', neuron:'<circle cx="12" cy="12" r="2.4"/><path d="M12 9.6V4M9.8 13.2 4.5 17M14.2 13.2 19.5 17M12 4 9 2.5M12 4l3-1.5M4.5 17 3 20M19.5 17l1.5 3"/>', galaxy:'<path d="M12 12c0-3 3-5 6-4M12 12c0 3-3 5-6 4M12 12c3 0 5 3 4 6M12 12c-3 0-5-3-4-6"/><circle cx="12" cy="12" r="1.3"/>', orbit:'<ellipse cx="12" cy="12" rx="9" ry="4.2"/><ellipse cx="12" cy="12" rx="5" ry="2.2"/>', globe:'<circle cx="12" cy="12" r="8.5"/><path d="M5 9c4 2 10 2 14 0M5.5 15.5c4-2 9-2 13 0"/>', shell:'<path d="M12 3.5A8.5 8.5 0 1 0 20.5 12"/><path d="M12 7.5A4.5 4.5 0 1 0 16.5 12"/><circle cx="12" cy="12" r="1"/>', nebula:'<circle cx="8" cy="9" r="3"/><circle cx="16" cy="8" r="2"/><circle cx="15" cy="16" r="3.4"/><circle cx="6.5" cy="17" r="1.5"/>', block:'<rect x="4" y="4" width="7" height="9" rx="1.2"/><rect x="13" y="4" width="7" height="5" rx="1.2"/><rect x="13" y="11" width="7" height="9" rx="1.2"/><rect x="4" y="15" width="7" height="5" rx="1.2"/>' };
 let T = 1;                                                // transition progress
@@ -807,7 +822,7 @@ float signal(vec3 P){ return uAnat*pow(max(0.0,sin(length(P)*0.2-uTime*1.5)),14.
   pP = prog(`#version 300 es
 precision highp float;
 in vec3 aFrom; in vec3 aTo; in vec3 aCol; in vec4 aMisc; in float aBirth; in vec4 aCen; uniform float uGrow;
-uniform mat4 uVP; uniform float uT, uPx, uSize, uK, uGain, uScaf, uDist, uDust, uHaze, uVary, uTw, uDepthF, uDrift, uScan, uScanPos, uScanT; uniform vec3 uScanAx;
+uniform mat4 uVP; uniform float uT, uPx, uSize, uK, uGain, uScaf, uDist, uDust, uHaze, uVary, uTw, uDepthF, uDrift, uScan, uScanPos, uScanT, uScanBody; uniform vec3 uScanAx;
 out vec3 vCol; out float vHot; out float vHz;
 `+LIVE+`void main(){
   float ph=aMisc.z, w=clamp(uT*1.5-ph*0.5,0.0,1.0); w=w*w*(3.0-2.0*w);
@@ -826,8 +841,8 @@ out vec3 vCol; out float vHot; out float vHz;
   float born=1.0-smoothstep(uGrow-0.01,uGrow+0.004,aBirth); inten*=born*(1.0+2.2*(1.0-smoothstep(0.0,0.05,uGrow-aBirth)));      // growth: items appear in date order, bright when new
   inten*=1.0+uAnat*uWave*1.3*signal(P)*(1.0-0.6*dust);
   inten=mix(inten,0.05*uHaze*aMisc.x*uGain,haze);
-  float sd=(dot(P,uScanAx)-uScanPos)/uScanT; inten*=mix(1.0,0.03+1.7*exp(-sd*sd),uScan);      // scan: only the slice is lit
-  vCol=mix(aCol,vec3(0.84,0.92,1.0),uScan*0.82)*inten; vHot=inten*(0.06+0.9*smoothstep(0.5,1.0,mag))*(1.0-dust)*(1.0-haze); vHz=haze;
+  float sd=(dot(P,uScanAx)-uScanPos)/uScanT, lit=exp(-sd*sd); inten*=mix(1.0,mix(0.03,0.2,uScanBody)+1.7*lit,uScan);      // scan: the slice is lit; on the Body the rest stays visible in its own colour
+  vCol=mix(aCol,vec3(0.84,0.92,1.0),uScan*0.82*mix(1.0,lit,uScanBody))*inten; vHot=inten*(0.06+0.9*smoothstep(0.5,1.0,mag))*(1.0-dust)*(1.0-haze); vHz=haze;
 }`, `#version 300 es
 precision mediump float; in vec3 vCol; in float vHot; in float vHz; out vec4 o;
 void main(){ vec2 p=gl_PointCoord*2.0-1.0; float d2=dot(p,p); if(d2>1.0) discard;
@@ -998,7 +1013,7 @@ function frame(now){ requestAnimationFrame(frame); const dt = Math.min(0.1, (now
   gl.uniform1f(pL.u.uFade, 0); gl.uniform1f(pL.u.uWave, 0);
   if(lineVerts){ gl.uniform1f(pL.u.uA, 1); gl.bindVertexArray(vaoL); gl.bindBuffer(gl.ARRAY_BUFFER, bLine); gl.bufferSubData(gl.ARRAY_BUFFER, 0, lineData.subarray(0, lineVerts*7)); gl.drawArrays(gl.LINES, 0, lineVerts); }
   gl.useProgram(pP.p); const U = pP.u; gl.uniformMatrix4fv(U.uVP, false, VP); gl.uniform1f(U.uT, T); gl.uniform1f(U.uTime, time); gl.uniform1f(U.uAnat, anatA); gl.uniform1f(U.uWave, wave); gl.uniform1f(U.uPx, scene.h/(2*Math.tan(FOV/2)));
-  gl.uniform1f(U.uSize, 4.3*S.size*pxr*DENS_S); gl.uniform1f(U.uK, 6*pxr); crowdNow += (crowdG-crowdNow)*0.08; gl.uniform1f(U.uGain, (HDR ? 0.31 : 0.2)*DENS_G*crowdNow/Math.pow(S.size, 1.7)); gl.uniform1f(U.uScaf, scafA); gl.uniform1f(U.uDist, cam.dist); gl.uniform1f(U.uDust, S.dust); gl.uniform1f(U.uHaze, (0.35+0.75*thermA)*S.haze); gl.uniform1f(U.uVary, S.vary*(S.shape === "sunflower" ? 0.3 : 1)); gl.uniform1f(U.uTw, S.tw); gl.uniform1f(U.uDepthF, S.depth); gl.uniform1f(U.uDrift, S.drift); force(U); gl.uniform1f(U.uGrow, growing ? growT : 2); gl.uniform1f(U.uScan, scanA); gl.uniform1f(U.uScanPos, SC.pos); gl.uniform1f(U.uScanT, SC.th); gl.uniform3f(U.uScanAx, SC.k === 0 ? 1 : 0, SC.k === 1 ? 1 : 0, 0);
+  gl.uniform1f(U.uSize, 4.3*S.size*pxr*DENS_S); gl.uniform1f(U.uK, 6*pxr); crowdNow += (crowdG-crowdNow)*0.08; gl.uniform1f(U.uGain, (HDR ? 0.31 : 0.2)*DENS_G*crowdNow/Math.pow(S.size, 1.7)); gl.uniform1f(U.uScaf, scafA); gl.uniform1f(U.uDist, cam.dist); gl.uniform1f(U.uDust, S.dust); gl.uniform1f(U.uHaze, (0.35+0.75*thermA)*S.haze); gl.uniform1f(U.uVary, S.vary*(S.shape === "sunflower" ? 0.3 : 1)); gl.uniform1f(U.uTw, S.tw); gl.uniform1f(U.uDepthF, S.depth); gl.uniform1f(U.uDrift, S.drift); force(U); gl.uniform1f(U.uGrow, growing ? growT : 2); gl.uniform1f(U.uScan, scanA); gl.uniform1f(U.uScanPos, SC.pos); gl.uniform1f(U.uScanT, SC.th); gl.uniform1f(U.uScanBody, S.shape === "body" ? 1 : 0); gl.uniform3f(U.uScanAx, SC.k === 0 ? 1 : 0, SC.k === 1 ? 1 : 0, 0);
   gl.bindVertexArray(vaoP); gl.drawArrays(gl.POINTS, 0, N);
   gl.bindVertexArray(vaoF); gl.disable(gl.BLEND); gl.useProgram(pD.p); gl.uniform1i(pD.u.uTex, 0); let src = scene;
   for(const m of mips){ gl.bindFramebuffer(gl.FRAMEBUFFER, m.fbo); gl.viewport(0, 0, m.w, m.h); gl.bindTexture(gl.TEXTURE_2D, src.tex); gl.uniform2f(pD.u.uTexel, 1/src.w, 1/src.h); gl.uniform1f(pD.u.uThr, src === scene ? 0.22 : 0); gl.drawArrays(gl.TRIANGLES, 0, 3); src = m; }
@@ -1166,7 +1181,7 @@ $("#bColReset").onclick = () => { for(const k in OV) delete OV[k]; applyLook(); 
 $("#bLook").onclick = () => { Object.assign(S, JSON.parse(JSON.stringify(LOOK))); for(const k in OV) delete OV[k]; applyLook(); toast("Look reset."); };
 $("#bReset").onclick = () => homeCam(false); $("#bClear").onclick = () => { F.group = null; F.project = null; F.range = null; F.heat = null; filtersChanged(); };
 $("#legend").addEventListener("mouseover", e => { const b = e.target.closest("[data-val]"); legHover(b ? +b.dataset.val : -1); }); $("#heatBy").value = S.heat; $("#legend").addEventListener("mouseleave", () => legHover(-1));
-$("#across").addEventListener("change", e => { S.across = e.target.value; syncForm(); applyLayout(true); });
+$("#across").addEventListener("change", e => { S.across = e.target.value; if(F.group && F.group.by !== colKey()) F.group = null; syncForm(); applyLayout(true); filtersChanged(); });
 $("#heatBy").addEventListener("change", e => { S.heat = e.target.value; F.heat = null; recolour(); filtersChanged(); });
 $("#vpBtn").onclick = () => $("#vp").classList.toggle("open"); $("#searchBtn").onclick = () => palOpen(true); $("#searchFab").onclick = () => palOpen(true); $("#palIn").addEventListener("input", palSearch);
 addEventListener("keydown", e => { if((e.metaKey || e.ctrlKey) && e.key.toLowerCase() === "k"){ e.preventDefault(); return palOpen($("#pal").hidden); }

diff --git a/artifacts/README.md b/artifacts/README.md
@@ -14,7 +14,7 @@ outer halo.
 - **Now**: open sessions and one card per project (waiting on you, running, stalled, done).
 - **Field**: every item is a speck. Pick a **shape** (Neuron, Galaxy, Sunflower, Orbit, Globe, Shell, Nebula, Body, Block) and a **layout** (Whole, Groups, Table); every shape works in every layout. Group by area, project, source, type, status or year.
 - **Sunflower**: a Fibonacci seed head. The k-th item by date sits k golden-angle turns (137.5°) round and √k out, so every item gets the same room and time reads outward like tree rings. Whole draws one ring per year, so ring width shows how much each year added. The thread lines join item k to item k + F for Fibonacci F, which are the spirals the eye picks out.
-- **Body**: a nervous system, and always one body. *Whole*: time runs down it; the newest 40% of the record is the brain (one region per group, plus cerebellum and brainstem), older items run down the spine and out along the nerves, oldest at the bottom. *Groups*: each group owns its own stretch of the same body, the first ones as slices of the brain. *Table*: the body laid flat as a chart; groups run down it and a second property runs outward from the spine.
+- **Body**: a human nervous system (brain, spinal cord, ribs, arms to the fingers, legs to the toes), and always one body. *Whole*: time runs down it; the newest fifth of the record is the brain, the rest fills the nerves evenly, oldest at the toes. *Groups*: the first group is the brain and each other group owns a stretch of the body below it. *Table*: the same stretches, each split left to right by a second property, which colour shows.
 - **Colour by**: colour can follow the grouping or a property of its own (group by project, colour by source). The legend, legend filters and per-group colours follow whatever colour stands for. In Table, **Swap** exchanges rows and columns.
 - **Colour**: palettes (Aurora, Ember, Orchid, Glacier, Starlight, Spectrum), a custom two-colour palette, a colour of your own for any group from the legend, and a Heat mode. The look is remembered in the browser.
 - **Record size**: shrink the record from 80,000 items down to 100 to see how it looks when you are starting out. **Play growth** (`G`) adds the items in date order, and `H` hides the interface for recording.

diff --git a/artifacts/AUDIT.md b/artifacts/AUDIT.md
@@ -503,3 +503,13 @@ Checked: all 27 shape × layout views render without errors; colour by Source ch
 
 Rough: at the full 80,000 items the seed lattice is too fine to see until you zoom in; at that size the picture reads through the year rings, the spiral bands and colour. Size variety is reduced to 30% on this shape so the lattice shows.
 
+### Follow-up: the Body did not look human
+
+The first Body was built from formulas (a dome brain, hoop ribs, drooping stubs for limbs) and read as a mushroom on a fish; its flat Table version read as a figurine. It is now built on the nerve tree from `particle-field-v5.html`: brainstem and cord on the midline, twelve rib nerves, neck, shoulder, four strands down each arm, a pair of nerves per finger, hip, leg and toes, the chain beside the spine, and four rounds of finer branches, grown for the right side and mirrored. The brain is scaled to the figure (it was about twice too large).
+
+- Items sit along the nerves. The tree is cut into short pieces sorted from head to toe, each weighted by length and thickness, so items spread evenly and any share of the record maps to a stretch of the body.
+- Table no longer uses a separate flat outline. It uses the same body and the same stretches as Groups; inside a stretch, pieces are ordered left to right and split by the second property, and colour follows that property.
+- While scanning, the unlit part of the Body stays at 20% in its own colour instead of 3% grey, so the figure does not disappear.
+
+Checked: Whole, Groups and Table render on desktop and phone, and the full click-through flows pass.
+
